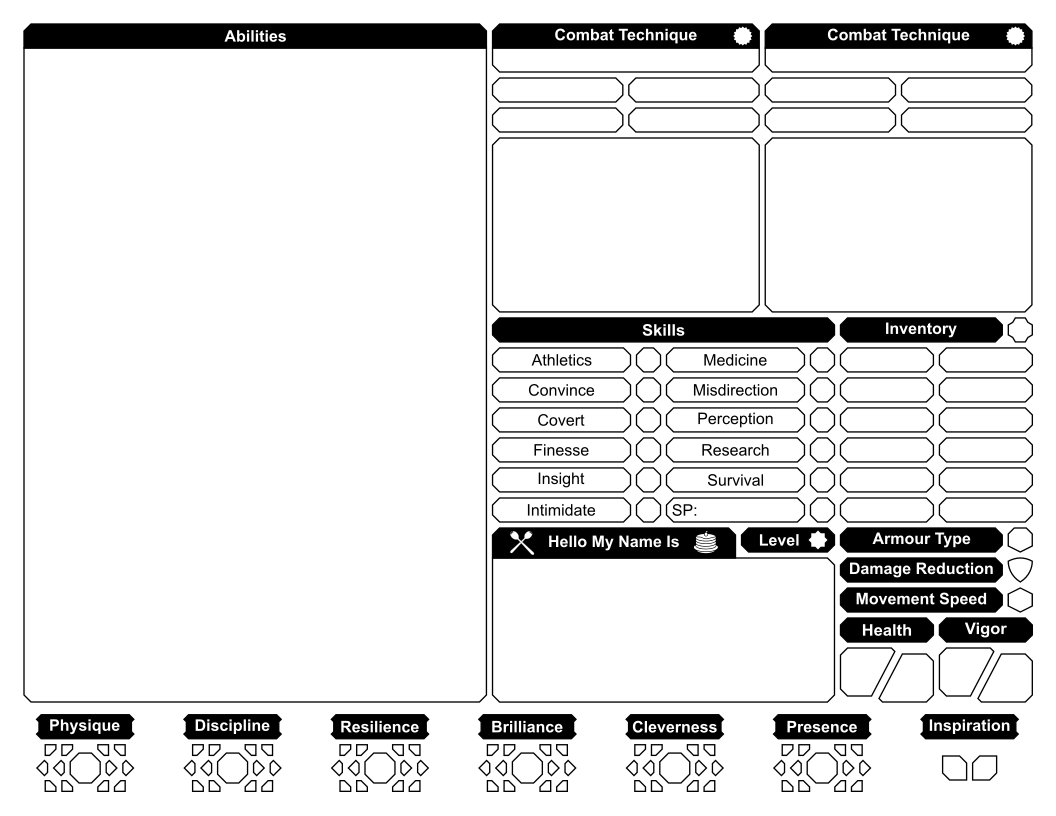
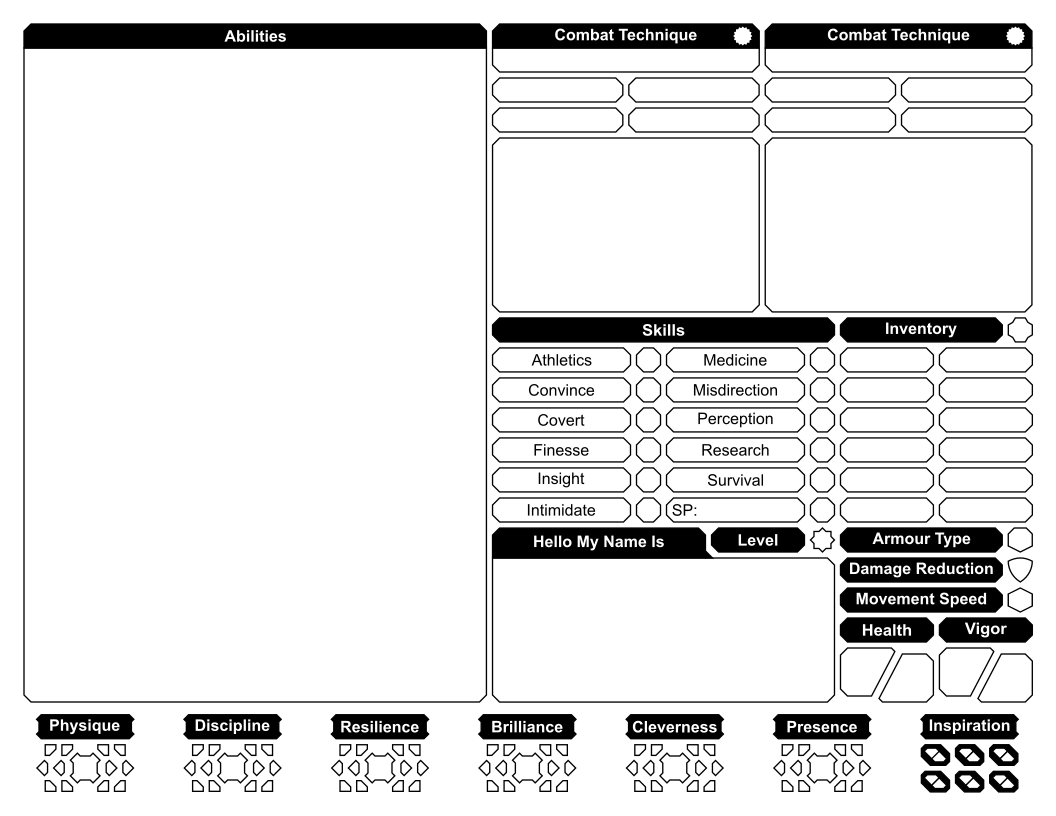
- ⛏ Minor Fixes   - 🧮 Combined Caster & Notes Sheet PNGs   - 🔧 Fixed Character Sheet PNG   - 📃 README Formatting

diff --git a/README.md b/README.md
@@ -23,11 +23,13 @@
 
 ![Cheat Sheet](resources/cheat-sheet.png)
 
-### Caster Sheet & Notes Sheet
+### Caster & Notes Sheet
 
 ---
 
-![Caster Sheet](resources/caster-sheet.png) ![Notes Sheet](resources/notes-sheet.png)
+- *cut/fold along the dotted line*
+
+![Caster & Notes Sheet](resources/caster-notes-sheet.png)
 
 ### Example Character Sheets
 
